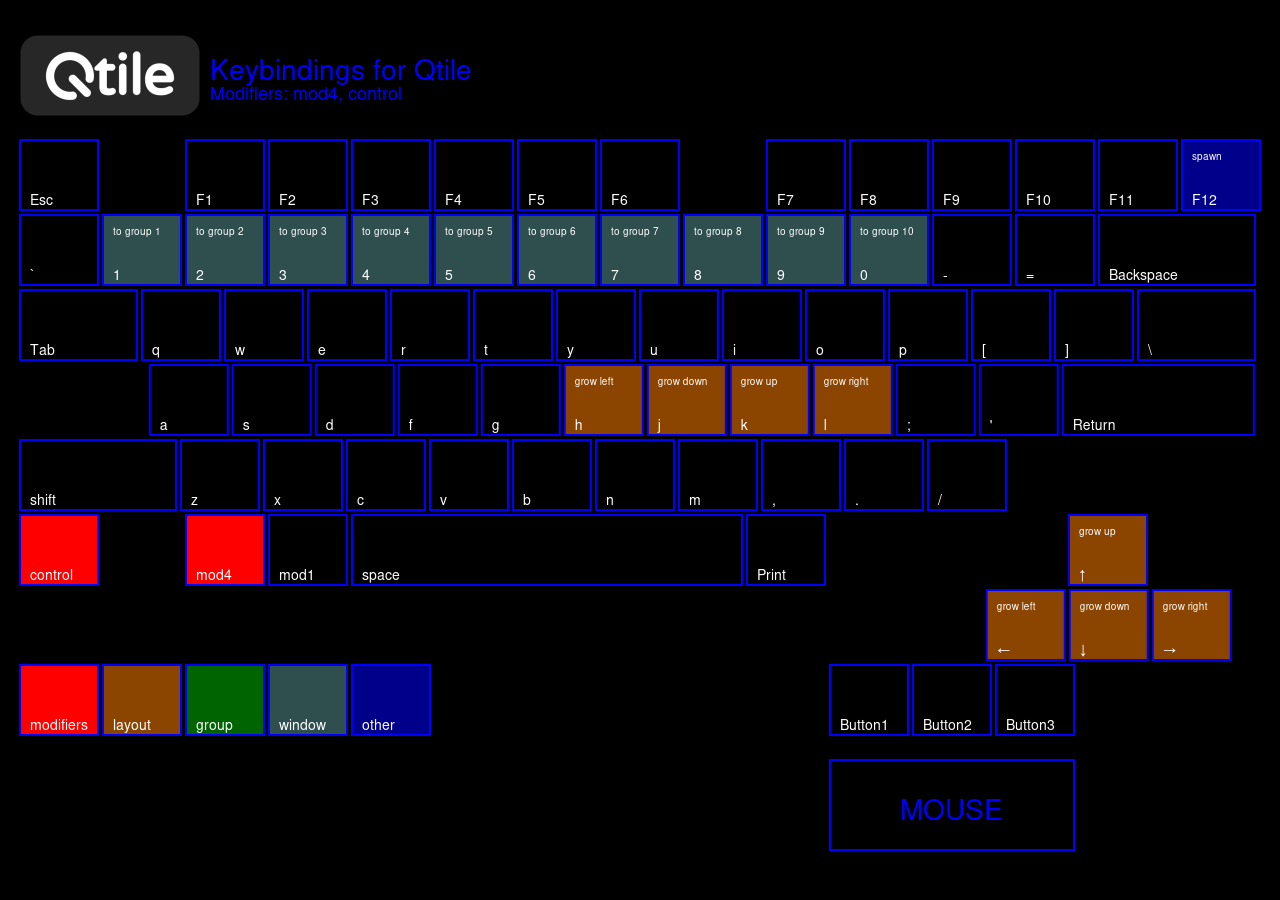
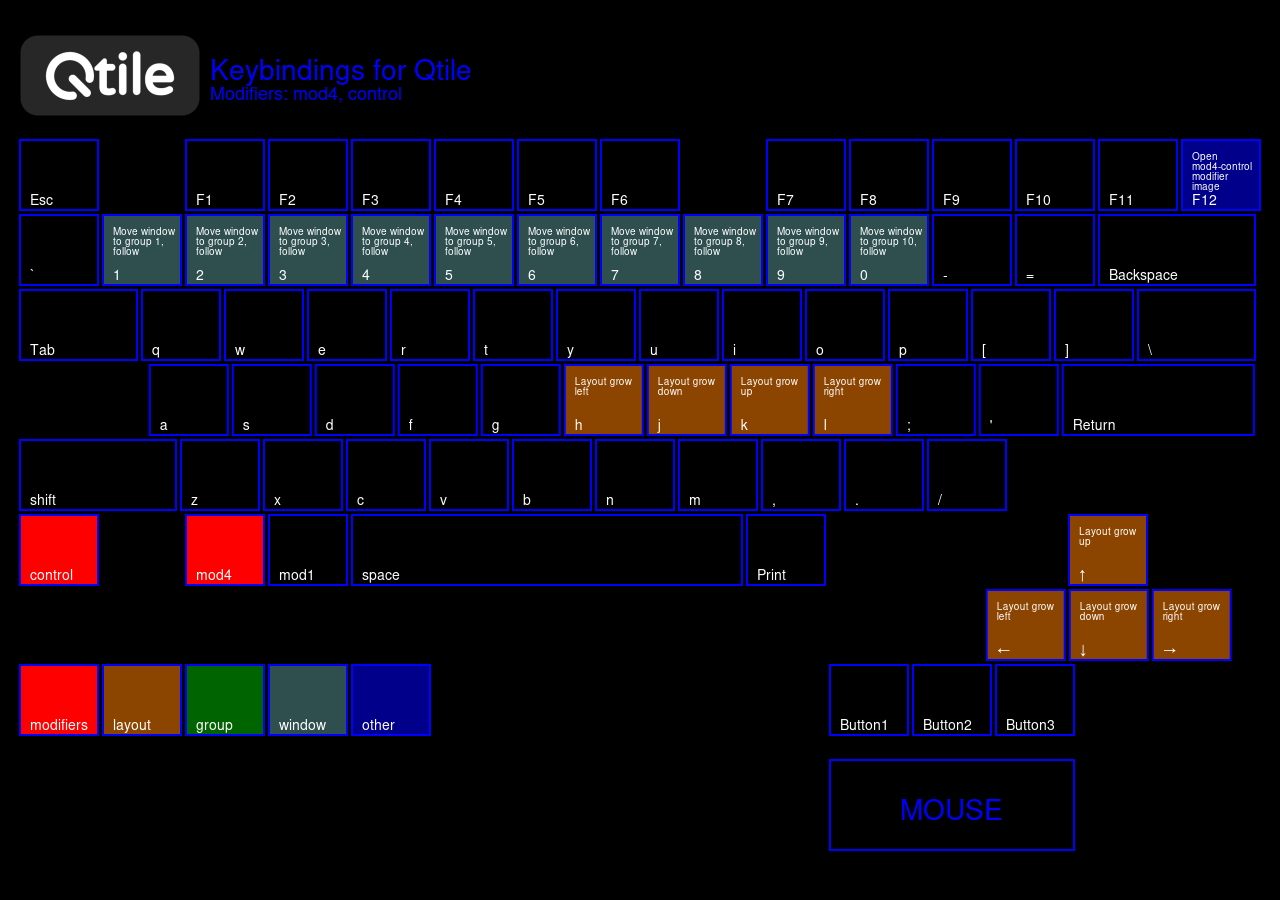
Update 2020.9

diff --git a/.config/qtile/config.py b/.config/qtile/config.py
@@ -62,110 +62,115 @@ keys = [
 
     # No modifyers
 
-    # Key([], "Print", lazy.spawn("scrot '%Y-%m-%d-%H:%M:%S-pic_screen.jpg' -e 'mv $f $$(xdg-user-dir PICTURES)'")),
-    Key([], "F10", lazy.spawn("amixer set Master 5%-")),
-    Key([], "F11", lazy.spawn("amixer set Master 5%+")),
+    #   SCREENSHOTS
+    Key([], "Print", lazy.spawn("malscrot"), desc='Scennshot fullscreen'),
+    Key([mod], "Print", lazy.spawn("malscrot -u"), desc='Scennshot current window'),
+    Key([mod, "mod1"], "Print", lazy.spawn("malscrot -s"), desc='Scennshot selected'),
 
-    # Key image
+    #   XF(/ keys)
+    Key([], "XF86AudioLowerVolume", lazy.spawn("amixer -q set Master 5%-"), desc="Volume down 5%"),
+    Key([], "XF86AudioRaiseVolume", lazy.spawn("amixer -q set Master 5%+"), desc="Volume up 5%"),
+    Key([], "XF86AudioMute", lazy.spawn("amixer -q set Master toggle"), desc="Volume mute"),
 
-    Key([], "F12", lazy.spawn(["feh", home + "/.config/qtile/no_modifier.png"])),
-    Key([mod], "F12", lazy.spawn(["feh", home + "/.config/qtile/mod4.png"])),
-    Key([mod, "control"], "F12", lazy.spawn(["feh", home + "/.config/qtile/mod4-control.png"])),
-    Key([mod, "mod1"], "F12", lazy.spawn(["feh", home + "/.config/qtile/mod4-mod1.png"])),
-    Key([mod, "shift"], "F12", lazy.spawn(["feh", home + "/.config/qtile/mod4-shift.png"])),
-    Key(["mod1"], "F12", lazy.spawn(["feh", home + "/.config/qtile/mod1.png"])),
+    #   KEYS IMAGES
+    Key([], "F12", lazy.spawn(["feh", home + "/.config/qtile/no_modifier.png"]), desc="Open no modifier image"),
+    Key([mod], "F12", lazy.spawn(["feh", home + "/.config/qtile/mod4.png"]), desc="Open mod4 modifier image"),
+    Key([mod, "control"], "F12", lazy.spawn(["feh", home + "/.config/qtile/mod4-control.png"]), desc="Open mod4-control modifier image"),
+    Key([mod, "mod1"], "F12", lazy.spawn(["feh", home + "/.config/qtile/mod4-mod1.png"]), desc="Open mod4-mod1 modifier image"),
+    Key([mod, "shift"], "F12", lazy.spawn(["feh", home + "/.config/qtile/mod4-shift.png"]), desc="Open mod4-shift modifier image"),
+    Key(["mod1"], "F12", lazy.spawn(["feh", home + "/.config/qtile/mod1.png"]), desc="Open mod1 modifier image"),
 
     # Mod4 (Super) +
 
-    Key([mod], "b", lazy.hide_show_bar(position='top')),
-    Key([mod], "c", lazy.spawn("power")),
-    Key([mod], "d", lazy.spawn("dmenu_run -i -p 'Search' -nb '#2f2b26' -sb '#2e8b57' -fn 'JetBrains Mono Medium-12'")),
-    Key([mod], "f", lazy.window.toggle_fullscreen()),
-    Key([mod], "i", lazy.spawn(term + " -e htop")),
-    Key([mod], "n", lazy.spawn(term + " -e newsboat")),
-    Key([mod], "p", lazy.spawn("discord")),
-    Key([mod], "q", lazy.window.kill()),
-    Key([mod], "r", lazy.spawncmd()),
-    Key([mod], "w", lazy.spawn(browser)),
-    Key([mod], "F2", lazy.spawn("edconf.sh")),
+    Key([mod], "b", lazy.hide_show_bar(position='top'), desc="Hide/show top bar"),
+    Key([mod], "c", lazy.spawn("power"), desc="Open logot script"),
+    Key([mod], "d", lazy.spawn("dmenu_run -i -p 'Search' -nb '#2f2b26' -sb '#2e8b57' -fn 'JetBrains Mono Medium-12'"), desc="Open dmenu"),
+    Key([mod], "f", lazy.window.toggle_fullscreen(), desc="Fullscreen on/off"),
+    Key([mod], "i", lazy.spawn(term + " -e htop"), desc="Open htop"),
+    Key([mod], "n", lazy.spawn(term + " -e newsboat"), desc="Open newsboat"),
+    Key([mod], "p", lazy.spawn("discord"), desc="Open discord"),
+    Key([mod], "q", lazy.window.kill(), desc="Close window"),
+    Key([mod], "r", lazy.spawncmd(), desc="open prompt (if enable prompt widget)"),
+    Key([mod], "w", lazy.spawn(browser), desc="Open default browser"),
+    Key([mod], "F2", lazy.spawn("edconf.sh"), desc="Fast config file open"),
     # Key([mod], "F6", lazy.spawn(termfloat + " -e cava")),
-    Key([mod], "F4", lazy.spawn("maim_save")),
-    Key([mod], "F5", lazy.spawn("maimpick")),
-    Key([mod], "F9", lazy.spawn("dmenumount")),
-    Key([mod], "F10", lazy.spawn("dmenuumount")),
-    Key([mod], "Return", lazy.spawn(term)),
-    Key([mod], "space", lazy.prev_layout()),
-    Key([mod], "Scroll_Lock", lazy.spawn("run_screenkey")),
-    Key([mod], "KP_Home", lazy.spawn("dmenurecord")),
-    Key([mod], "KP_End", lazy.spawn("live.sh")),
+    # Key([mod], "F4", lazy.spawn("maim_save")),
+    # Key([mod], "F5", lazy.spawn("maimpick")),
+    Key([mod], "F9", lazy.spawn("dmenumount"), desc="Fast phone mount"),
+    Key([mod], "F10", lazy.spawn("dmenuumount"), desc="Fast phone umount"),
+    Key([mod], "Return", lazy.spawn(term), desc="Open default terminal"),
+    Key([mod], "space", lazy.prev_layout(), desc="Prev layout"),
+    Key([mod], "Scroll_Lock", lazy.spawn("run_screenkey"), desc="Screenkey on/off"),
+    Key([mod], "KP_Home", lazy.spawn("dmenurecord"), desc="Open demenu record"),
+    Key([mod], "KP_End", lazy.spawn("live.sh"), desc="Open live.sh"),
 
     # opacity
-    Key([mod], "comma", lazy.window.down_opacity()),
-    Key([mod, "shift"], "comma", lazy.window.up_opacity()),
+    Key([mod], "comma", lazy.window.down_opacity(), desc="Down opacity"),
+    Key([mod, "shift"], "comma", lazy.window.up_opacity(), desc="Up opacity"),
 
 
 
     # ######### LAYOUT ################
 
-    Key([mod], "j", lazy.layout.down()),
-    Key([mod], "k", lazy.layout.up()),
-    Key([mod], "h", lazy.layout.left()),
-    Key([mod], "l", lazy.layout.right()),
-    Key([mod, "shift"], "j", lazy.layout.shuffle_down()),
-    Key([mod, "shift"], "k", lazy.layout.shuffle_up()),
-    Key([mod, "shift"], "h", lazy.layout.shuffle_left()),
-    Key([mod, "shift"], "l", lazy.layout.shuffle_right()),
-    Key([mod, "mod1"], "j", lazy.layout.flip_down()),
-    Key([mod, "mod1"], "k", lazy.layout.flip_up()),
-    Key([mod, "mod1"], "h", lazy.layout.flip_left()),
-    Key([mod, "mod1"], "l", lazy.layout.flip_right()),
-    Key([mod, "control"], "j", lazy.layout.grow_down()),
-    Key([mod, "control"], "k", lazy.layout.grow_up()),
-    Key([mod, "control"], "h", lazy.layout.grow_left()),
-    Key([mod, "control"], "l", lazy.layout.grow_right()),
+    Key([mod], "j", lazy.layout.down(), desc="Layout down"),
+    Key([mod], "k", lazy.layout.up(), desc="Layout up"),
+    Key([mod], "h", lazy.layout.left(), desc="Layout left"),
+    Key([mod], "l", lazy.layout.right(), desc="Layout right"),
+    Key([mod, "shift"], "j", lazy.layout.shuffle_down(), desc="Layout shuffle down"),
+    Key([mod, "shift"], "k", lazy.layout.shuffle_up(), desc="Layout shuffle up"),
+    Key([mod, "shift"], "h", lazy.layout.shuffle_left(), desc="Layout shuffle left"),
+    Key([mod, "shift"], "l", lazy.layout.shuffle_right(), desc="Layout shufle right"),
+    Key([mod, "mod1"], "j", lazy.layout.flip_down(), desc="Layout flip down"),
+    Key([mod, "mod1"], "k", lazy.layout.flip_up(), desc="Layout flip up"),
+    Key([mod, "mod1"], "h", lazy.layout.flip_left(), desc="Layout flip left"),
+    Key([mod, "mod1"], "l", lazy.layout.flip_right(), desc="Layout flip right"),
+    Key([mod, "control"], "j", lazy.layout.grow_down(), desc="Layout grow down"),
+    Key([mod, "control"], "k", lazy.layout.grow_up(), desc="Layout grow up"),
+    Key([mod, "control"], "h", lazy.layout.grow_left(), desc="Layout grow left"),
+    Key([mod, "control"], "l", lazy.layout.grow_right(), desc="Layout grow right"),
 
-    Key([mod], "Down", lazy.layout.down()),
-    Key([mod], "Up", lazy.layout.up()),
-    Key([mod], "Left", lazy.layout.left()),
-    Key([mod], "Right", lazy.layout.right()),
-    Key([mod, "shift"], "Down", lazy.layout.shuffle_down()),
-    Key([mod, "shift"], "Up", lazy.layout.shuffle_up()),
-    Key([mod, "shift"], "Left", lazy.layout.shuffle_left()),
-    Key([mod, "shift"], "Right", lazy.layout.shuffle_right()),
-    Key([mod, "mod1"], "Down", lazy.layout.flip_down()),
-    Key([mod, "mod1"], "Up", lazy.layout.flip_up()),
-    Key([mod, "mod1"], "Left", lazy.layout.flip_left()),
-    Key([mod, "mod1"], "Right", lazy.layout.flip_right()),
-    Key([mod, "control"], "Down", lazy.layout.grow_down()),
-    Key([mod, "control"], "Up", lazy.layout.grow_up()),
-    Key([mod, "control"], "Left", lazy.layout.grow_left()),
-    Key([mod, "control"], "Right", lazy.layout.grow_right()),
+    Key([mod], "Down", lazy.layout.down(), desc="Layout down"),
+    Key([mod], "Up", lazy.layout.up(), desc="Layout up"),
+    Key([mod], "Left", lazy.layout.left(), desc="Layout left"),
+    Key([mod], "Right", lazy.layout.right(), desc="Layout right"),
+    Key([mod, "shift"], "Down", lazy.layout.shuffle_down(), desc="Layout shuffle down"),
+    Key([mod, "shift"], "Up", lazy.layout.shuffle_up(), desc="Layout shuffle up"),
+    Key([mod, "shift"], "Left", lazy.layout.shuffle_left(), desc="Layout shuffle left"),
+    Key([mod, "shift"], "Right", lazy.layout.shuffle_right(), desc="Layout shuffle right"),
+    Key([mod, "mod1"], "Down", lazy.layout.flip_down(), desc="Layout flip down"),
+    Key([mod, "mod1"], "Up", lazy.layout.flip_up(), desc="Layout flip up"),
+    Key([mod, "mod1"], "Left", lazy.layout.flip_left(), desc="Layout flip left"),
+    Key([mod, "mod1"], "Right", lazy.layout.flip_right(), desc="Layout flip right"),
+    Key([mod, "control"], "Down", lazy.layout.grow_down(), desc="Layout grow down"),
+    Key([mod, "control"], "Up", lazy.layout.grow_up(), desc="Layout grow up"),
+    Key([mod, "control"], "Left", lazy.layout.grow_left(), desc="Layout grow left"),
+    Key([mod, "control"], "Right", lazy.layout.grow_right(), desc="Layout grow right"),
 
     # Mod4 (Super) + shift +
 
-    # Key([mod, "shift"], "c", lazy.spawn(termfloat + "-e calcurse")),
-    Key([mod, "shift"], "c", lazy.spawn("urxvt --geometry 70x20 -e calcurse")),
-    Key([mod, "shift"], "d", lazy.spawn("rofi -show run"),),
-    Key([mod, "shift"], "e", lazy.spawn("subl"),),
-    Key([mod, "shift"], "i", lazy.spawn(term + " -e gtop")),
-    Key([mod, "shift"], "n", lazy.spawn(termfloat + " -e ncmpcpp")),
-    Key([mod, "shift"], "p", lazy.spawn("pcmanfm")),
-    Key([mod, "shift"], "r", lazy.restart()),
-    Key([mod, "shift"], "x", lazy.spawm("killall ffmpeg")),
-    Key([mod, "shift"], "w", lazy.spawn("firefox")),
-    Key([mod, "shift"], "Return", lazy.spawn(termfloat)),
+    Key([mod, "shift"], "c", lazy.spawn("urxvt --geometry 70x20 -e calcurse"), desc="Open calcurse"),
+    Key([mod, "shift"], "d", lazy.spawn("rofi -show run"), desc="Open rofi run"),
+    Key([mod, "shift"], "e", lazy.spawn("subl3"), desc="Open sublime-text"),
+    Key([mod, "shift"], "f", lazy.window.toggle_floating(), desc="Window floating on/off"),
+    Key([mod, "shift"], "i", lazy.spawn(term + " -e gtop"), desc="Open gtop"),
+    Key([mod, "shift"], "n", lazy.spawn(termfloat + " -e ncmpcpp"), desc="Open ncmpcpp"),
+    Key([mod, "shift"], "p", lazy.spawn("pcmanfm"), desc="Open pcmanfm"),
+    Key([mod, "shift"], "r", lazy.restart(), desc="Qtile reload"),
+    Key([mod, "shift"], "x", lazy.spawm("killall ffmpeg"), desc="Kill ffmpeg"),
+    Key([mod, "shift"], "w", lazy.spawn("firefox"), desc="Open firefox"),
+    Key([mod, "shift"], "Return", lazy.spawn(termfloat), desc="Open floating terminal"),
 
     # Mod4 (Super) + mod1 (Alt) +
 
-    Key(["mod1"], "a", lazy.spawn("pavucontrol")),
-    Key([mod, "mod1"], "q", lazy.shutdown()),
-    Key([mod, "mod1"], "r", lazy.restart()),
-    Key([mod, "mod1"], "space", lazy.prev_layout()),
-    Key([mod, "mod1"], "Tab", lazy.screen.prev_group()),
+    Key(["mod1"], "a", lazy.spawn("pavucontrol"), desc="Open pavucontrol"),
+    Key([mod, "mod1"], "q", lazy.shutdown(), desc="Logout qtile"),
+    Key([mod, "mod1"], "r", lazy.restart(), desc="Qtile reload"),
+    Key([mod, "mod1"], "space", lazy.next_layout(), desc="Next layout"),
+    Key([mod, "mod1"], "Tab", lazy.screen.prev_group(), desc="Sreen prev group"),
 
     # mod1 (Alt) +
 
-    Key(["mod1"], "Tab", lazy.screen.next_group()),
+    Key(["mod1"], "Tab", lazy.screen.next_group(), desc="Sreen next group"),
 
 ]
 
@@ -175,7 +180,7 @@ group_names = ("1", "2", "3", "4", "5", "6", "7", "8", "9", "10")
 
 group_layouts = ("bsp", "bsp", "bsp", "bsp", "bsp", "bsp", "bsp", "bsp", "floating", "bsp")
 
-# group_labels = ("", "", "", "", "", "", "", "", "", "")
+group_labels = ("", "", "", "", "", "", "", "", "", "")
 
 
 for i in range(len(group_names)):
@@ -183,7 +188,7 @@ for i in range(len(group_names)):
         Group(
             name=group_names[i],
             layout=group_layouts[i].lower(),
-            # label=group_labels[i],
+            label=group_labels[i],
         ))
 
 
@@ -191,20 +196,20 @@ for i in groups:
     if i.name == "10":
         keys.extend([
             # mod1 + letter of group = switch to group
-            Key([mod], "0", lazy.group["10"].toscreen(toggle=False)),
+            Key([mod], "0", lazy.group["10"].toscreen(toggle=False), desc="Jump to group 10"),
 
             # mod1 + shift + letter of group = switch to & move focused window to group
-            Key([mod, "shift"], "0", lazy.window.togroup("10")),
-            Key([mod, "control"], "0", lazy.window.togroup("10", switch_group=True)),
+            Key([mod, "shift"], "0", lazy.window.togroup("10"), desc="Move window to group 10, not following"),
+            Key([mod, "control"], "0", lazy.window.togroup("10", switch_group=True), desc="Move window to group 10, follow"),
         ])
     else:
         keys.extend([
             # mod1 + letter of group = switch to group
-            Key([mod], i.name, lazy.group[i.name].toscreen(toggle=False)),
+            Key([mod], i.name, lazy.group[i.name].toscreen(toggle=False), desc="Jump to group " + i.name),
 
             # mod1 + shift + letter of group = switch to & move focused window to group
-            Key([mod, "shift"], i.name, lazy.window.togroup(i.name)),
-            Key([mod, "control"], i.name, lazy.window.togroup(i.name, switch_group=True)),
+            Key([mod, "shift"], i.name, lazy.window.togroup(i.name), desc="Move window to group " + i.name + ", not following"),
+            Key([mod, "control"], i.name, lazy.window.togroup(i.name, switch_group=True), desc="Move window to group " + i.name + ", follow"),
         ])
 
 
@@ -233,9 +238,9 @@ layouts = [
     # layout.MonadTall(),
     # layout.MonadWide(),
     # layout.RatioTile(),
-    layout.Tile(
-        **layout_defaults,
-    ),
+    # layout.Tile(
+    #     **layout_defaults,
+    # ),
 
     # layout.TreeTab(),
     # layout.VerticalTile(),
@@ -250,7 +255,7 @@ layouts = [
 widget_defaults = dict(
     # font='Hack Nerd Font Mono',
     font='JetBrains Mono',
-    fontsize=10,
+    fontsize=12,
     padding=3,
     background=color.background,
     foreground=color.foreground,
@@ -261,8 +266,10 @@ widget_defaults = dict(
 extension_defaults = widget_defaults.copy()
 
 sep_set = dict(
-    linewidth=1,
-    foreground=color.color10,
+    linewidth=3,
+    foreground=color.color0,
+    # foreground="#000000",
+    size_percent=100,
 )
 
 
@@ -310,9 +317,9 @@ screens = [
                     disable_drag=True,
                     inactive=color.color1,
                     active=color.foreground,
-                    hide_unused=True
+                    hide_unused=True,
                     # if set group label sets, small icons.
-                    # fontsize=20,
+                    fontsize=20,
                 ),
 
                 widget.CurrentLayoutIcon(
@@ -477,10 +484,10 @@ screens = [
 # Drag floating layouts.
 mouse = [
     Drag([mod], "Button1", lazy.window.set_position_floating(),
-         start=lazy.window.get_position()),
+         start=lazy.window.get_position(), desc="Move window"),
     Drag([mod], "Button3", lazy.window.set_size_floating(),
-         start=lazy.window.get_size()),
-    Click([mod], "Button2", lazy.window.bring_to_front())
+         start=lazy.window.get_size(), desc="Resize window"),
+    Click([mod], "Button2", lazy.window.bring_to_front(), desc="Bring to front")
 ]
 
 dgroups_key_binder = None

diff --git a/.config/qtile/wttrweather.py b/.config/qtile/wttrweather.py
@@ -30,23 +30,36 @@ class WttrWeather(base.ThreadedPollText):
         return self.update_interval
 
     def poll(self):
+        """Check internet connection."""
+
         try:
             host = socket.gethostbyname("8.8.8.8")
             s = socket.create_connection((host, 443))
             s.close()
             connect = True
-        except:
+        except socket.error:
             connect = False
 
         if connect:
             val = {}
             data_keys = ['c', 'C', 'h', 't', 'f', 'w', 'l', 'm', 'p', 'P']
             url = 'https://v2.wttr.in/' + self.location + '?format=%c\\%C\\%h\\%t\\%f\\%w\\%l\\%m\\%p\\%P' + self.units
-            data = requests.get(url, headers={'user-agent': 'curl'})
-            if data.ok is False:
-                output = "N/A"
-                self.update_interval = 10
-            else:
+
+            """Check Webpage data valid."""
+            try:
+                data = requests.get(url, headers={'user-agent': 'curl'})
+            except requests.exceptions.Timeout:
+                # Maybe set up for a retry, or continue in a retry loop
+                data = False
+            except requests.exceptions.TooManyRedirects:
+                # Tell the user their URL was bad and try a different one
+                data = False
+            except requests.exceptions.RequestException:
+                # catastrophic error. bail.
+                data = False
+            if data:
+
+                """Check dict no empty."""
                 try:
                     for x, y in zip(data_keys, data.text.split("\\")):
                         val[x] = y
@@ -55,6 +68,9 @@ class WttrWeather(base.ThreadedPollText):
                 except KeyError:
                     output = "N/A"
                     self.update_interval = 10
+            else:
+                output = "N/A"
+                self.update_interval = 10
         else:
             output = "N/A"
             self.update_interval = 10
